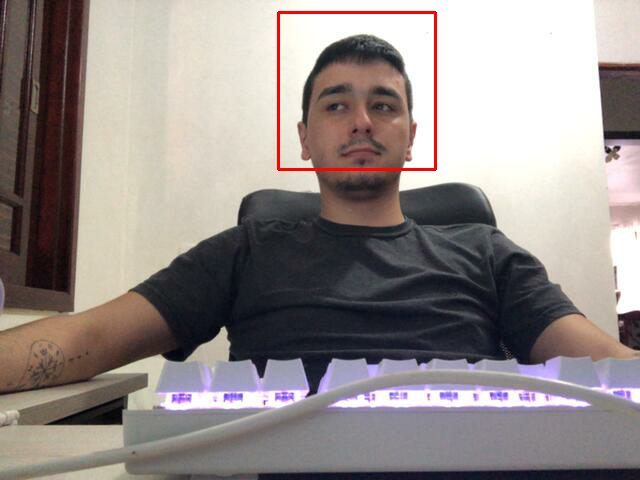
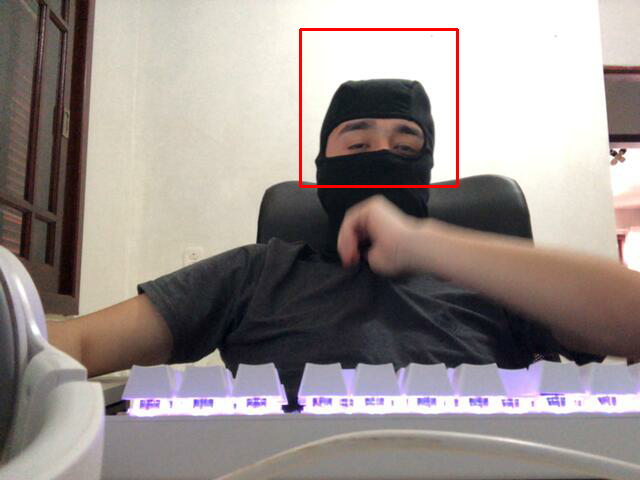
mudança no lançamento de logs

diff --git a/analise_treinamento_video.py b/analise_treinamento_video.py
@@ -68,14 +68,14 @@ while True:
 
 
     for (x,y,w,h) in objetos:
-        cv2.rectangle(img,(x,y),(x+w,y+h),(0,0,255),2)
-        if objetos.all():
-            if name not in face_names:
+        if name not in face_names:
+            cv2.rectangle(img,(x,y),(x+w,y+h),(0,0,255),2)
+            if objetos.all():
                 cv2.imwrite("logs/last_image.png", img)
-                logs = codecs.open("logs/logs.txt", 'w', 'UTF-8')
+                logs = codecs.open("logs/logs.txt", 'w+', 'UTF-8')
                 logs.write("Suspeito detectado "+date+"\n")
-            logs = codecs.open("logs/logs.txt", 'w', 'UTF-8')
-            logs.write(name+" foi o ultimo a ser detectado como suspeito "+date+"\n")
+        logs = codecs.open("logs/logs_pessoa_conhecida.txt", 'w+', 'UTF-8')
+        logs.write(name+" foi o ultimo funcionario a ser detectado " +date+"\n")
 
     cv2.imshow('Detector', img)
     cv2.imshow('Edge', edge_image)
